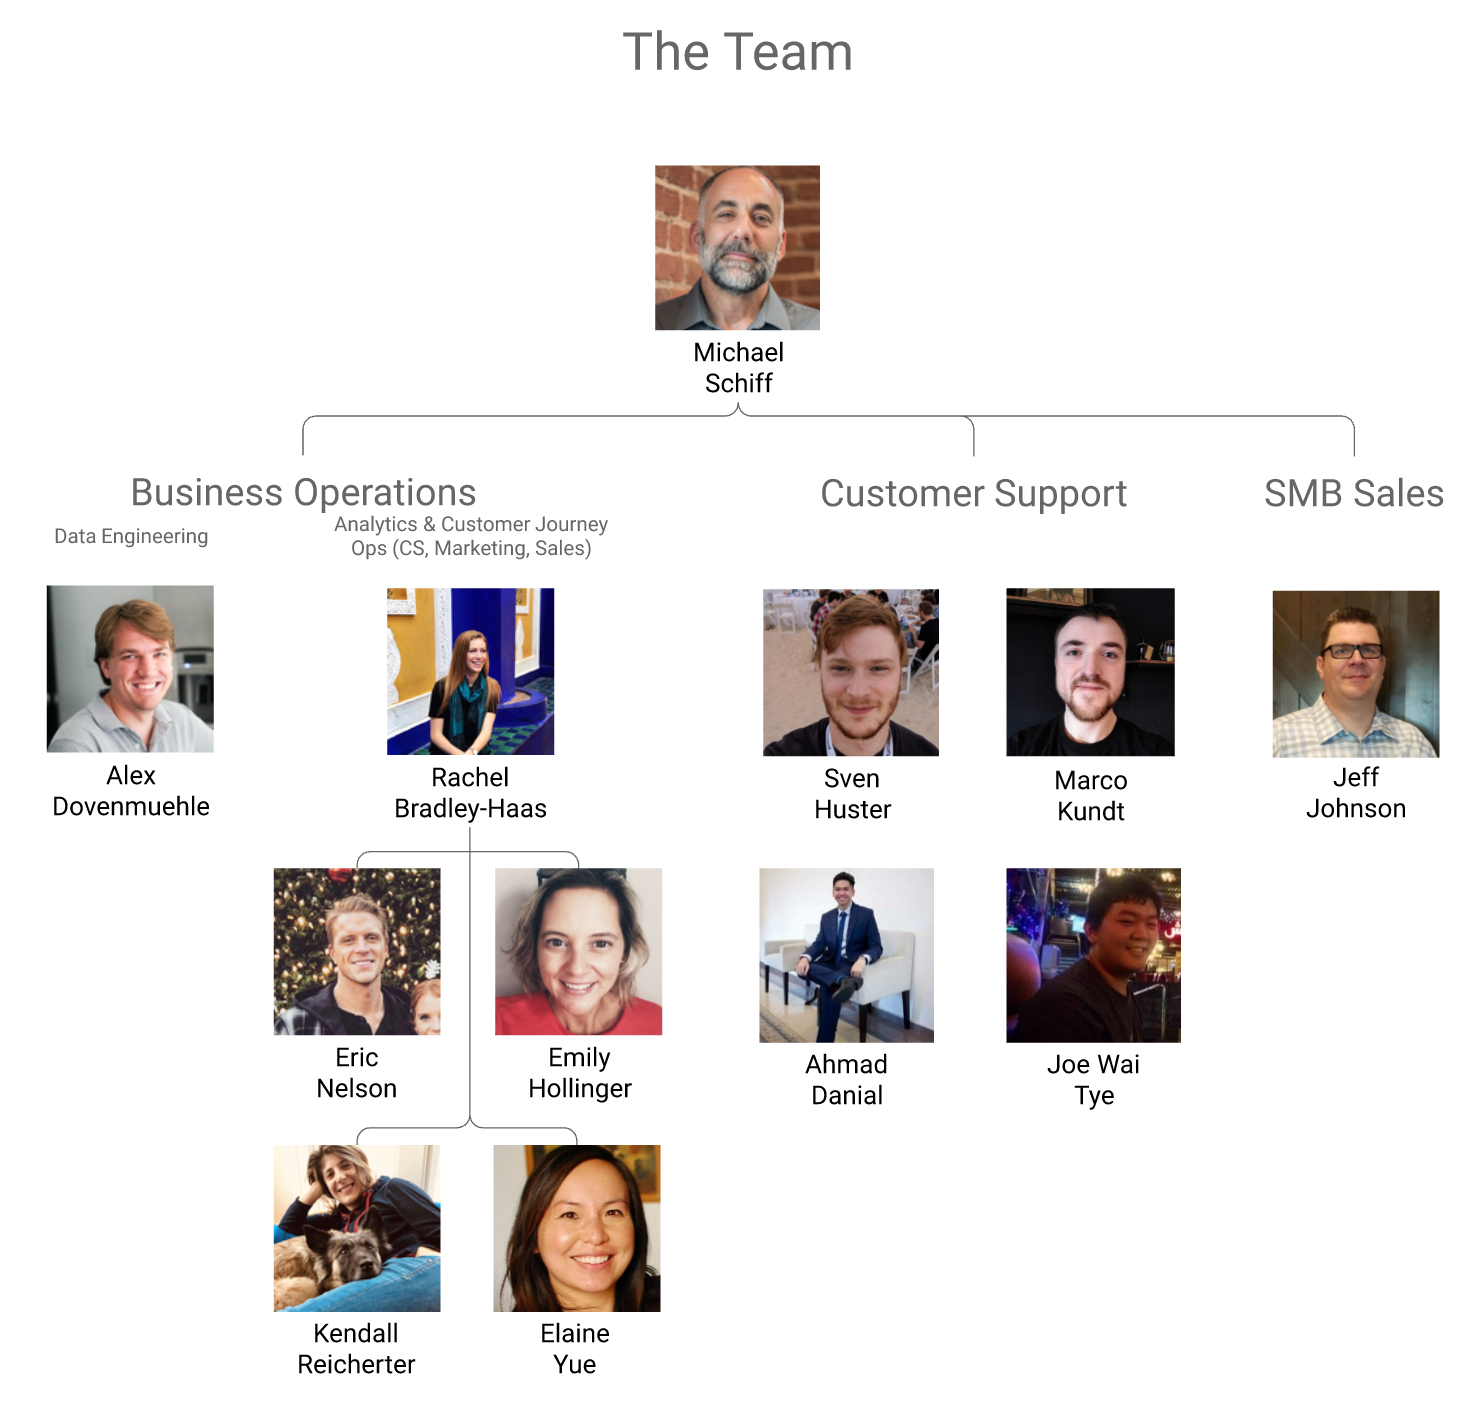
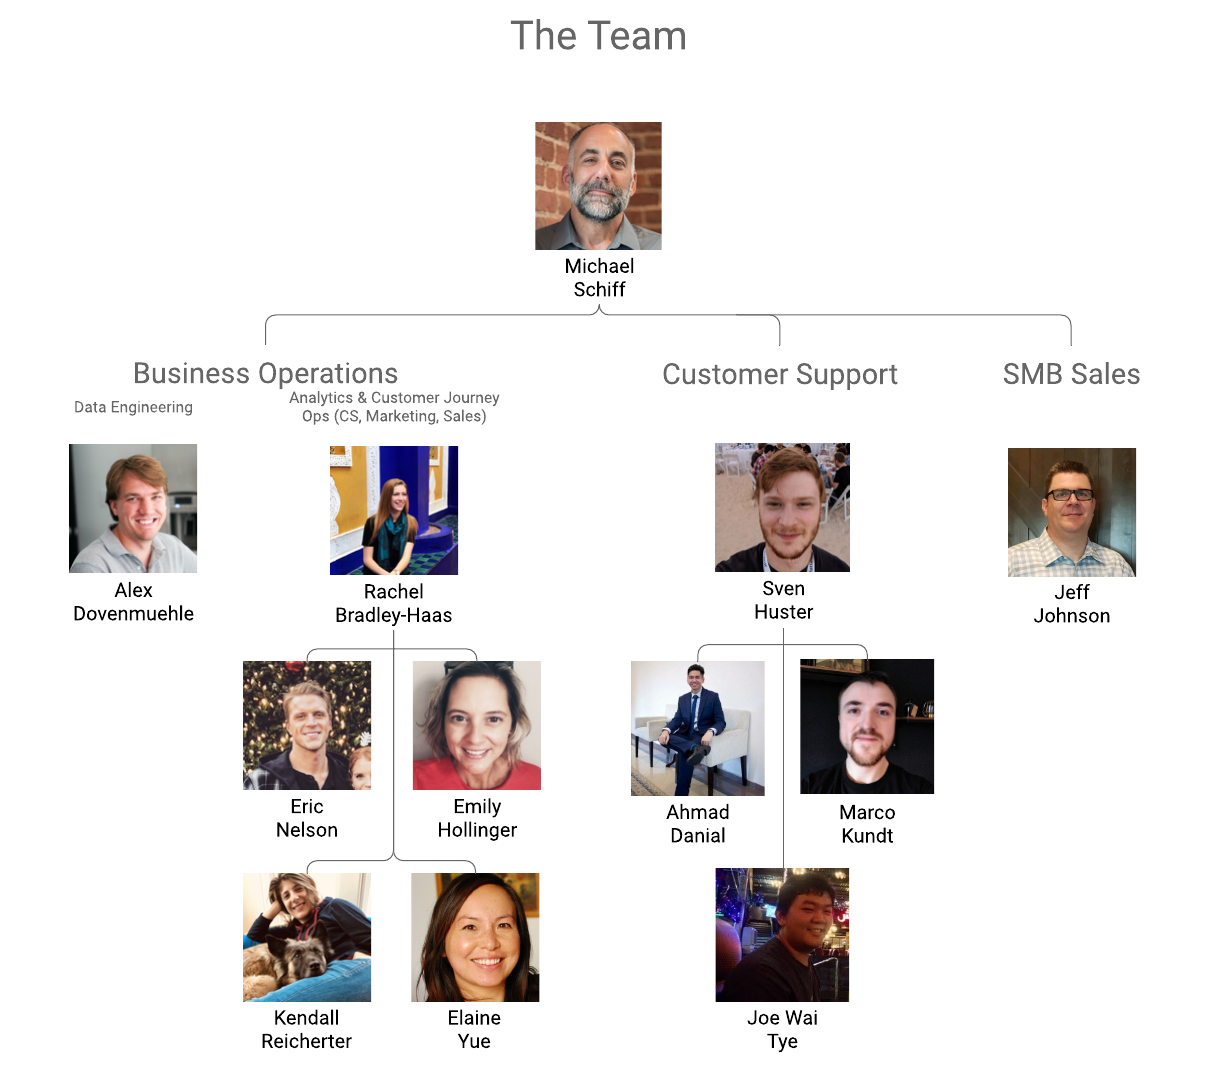
Update job description in Handbook (#366)
* Update job description in Handbook

* Delete bizops_image.png

* Add files via upload

diff --git a/operations/business-operations/README.md b/operations/business-operations/README.md
@@ -17,7 +17,7 @@ Michael Schiff, Head of Business Operations
     * Elaine Yue - Customer Journey Operations
     * Kendall Reicherter - Marketing Operations
 * Customer Support
-  * Sven Huster - Support Engineer
+  * Sven Hüster - Support Lead
   * Marco Kundt - Support Engineer
   * Ahmad Danial - Support Engineer
   * Joe Wai Tye - Support Engineer
